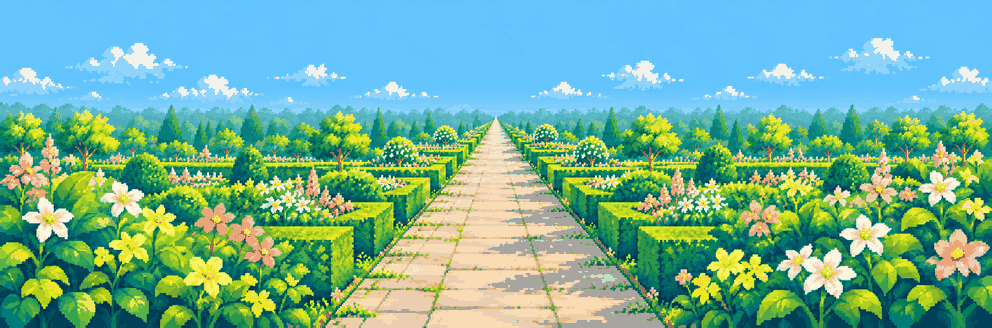
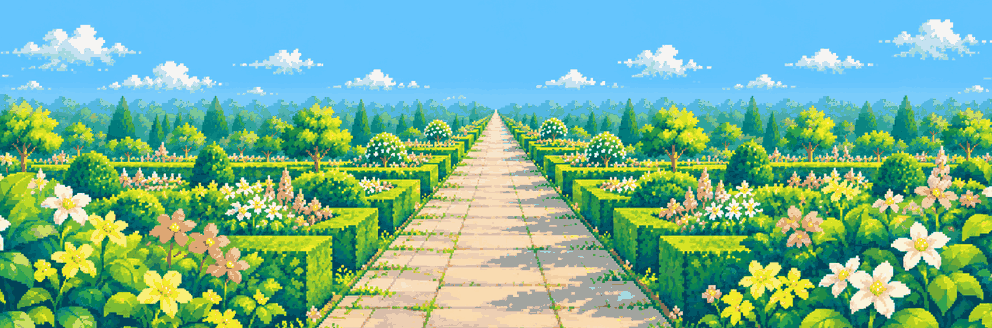
art: raise the outside view — less sky, eye-level horizon
The windows looked out from a very high floor: back-wall panes were 70-99% sky.
Every room's view is re-cropped lower from the same Codex originals (view.py
--zoom, sky above the far silhouettes is cut to about one third of the glass,
one shared horizon per room: studio2 87, lounge 130, library 88, greenhouse
119) so the near trees, bushes and buildings are bigger. Night pictures are
cropped with the measured vertical drift between the two originals, which also
removes the studio2 (and library) night horizon offset.

Lounge: the lake filled the panes, so the day and night pictures are redrawn at
eye level (narrow lake, big near bushes; gen_view prompts updated).

Greenhouse shell: glass.py cuts the pasted pieces of old picture around the
hanging plants (plantReach/plantDens) and drops loose specks (islands).

README: the broken view paths (control characters) are fixed.

diff --git a/art/extras/gen_view.py b/art/extras/gen_view.py
@@ -10,7 +10,7 @@ HERE = os.path.join(os.environ.get("AGENT_OFFICE_ART_WORK") or os.path.join(REPO
 WORK = HERE + "/raw"
 ROOMS = {  # canvas w,h, horizon y in canvas, style ref
  "studio2": (624, 224, 80, "studio2-w4-crop.png"),
- "lounge": (376, 136, 64, "lounge-w0-crop.png"),
+ "lounge": (376, 136, 68, "lounge-w0-crop.png"),
  "library": (304, 112, 58, "library-w1-crop.png"),
  "greenhouse": (992, 328, 96, "greenhouse-w5-crop.png"),
 }
@@ -20,8 +20,8 @@ STYLE = ("Pixel art, 16-bit era, same rendering style, palette and pixel size as
 P = {
 "studio2-day": "Wide panorama of a sunny city seen from a high window, pale blue sky with three small white clouds, a hazy distant skyline of tiny blue-grey towers sitting on the horizon (haze fades them toward the sky colour), nearer beige, pink and blue buildings with tiny window dots in the middle distance, and large yellow-green tree canopies and a few rooftops filling the bottom third. Strong scale difference: far towers very small, mid buildings medium, trees large.",
 "studio2-night": "The same city, same composition, same horizon and same building positions as the attached day image, at night: deep navy sky, crescent moon, a few small stars, dark blue skyline with sparse small warm-yellow lit windows, dark teal tree canopies with a few small street-lamp dots. No light glow, no bloom, flat pixel lights only. Paint it about 40% brighter than a realistic night.",
-"lounge-day": "Wide panorama of a sunny mountain valley: layered blue mountains on the horizon fading into haze, a calm lake with a far shore, rounded dark-green forest on the shore, big yellow flowering bushes and bright green foliage in the bottom third. Bright sky with a few small clouds. Far things tiny and hazy, near things large.",
-"lounge-night": "The same valley, same composition, same horizon and silhouettes as the attached day image, at night: starry navy sky with a moon, indigo mountains, lake with a pale moon streak, a couple of tiny warm lit cabin windows far away, dark forest and bushes with a few yellow flower dots. No glow, flat pixel lights, painted brighter than realistic.",
+"lounge-day": "Wide panorama of a sunny lake valley seen at EYE LEVEL from a low viewpoint on the shore, not from above: small hazy layered blue mountains in the upper third, a far shore with a dark-green forest right on the horizon line, only a thin band of calm blue lake at the horizon, and the whole lower half filled with big close yellow flowering bushes and bright green foliage that look large and near (each bush about 30 to 50 px in the final 376x136 picture). The viewer stands among the bushes, the water is a narrow strip behind them. Bright sky with a few small clouds, the sky takes only the top quarter.",
+"lounge-night": "Edit the attached day image into a night version of EXACTLY the same picture: every mountain, tree, bush, flower cluster and the thin lake strip stay in exactly the same pixel positions and shapes, the horizon and the top of the bushes stay on the same rows, nothing moves, nothing is added or removed in the landscape. Only recolour it for night: deep navy sky with a moon and a few small stars, dark indigo mountains, dark teal forest, dark navy lake strip with a pale moon streak, dark green bushes whose yellow flowers become dim pale yellow dots. No glow, flat pixel lights, painted brighter than realistic.",
 "library-day": "Wide panorama: jagged blue-grey mountains with small snow caps on the horizon, a pine forest in the middle distance, a sunlit green meadow with a few large pine crowns in the bottom third, bright sky with a few white clouds. Far mountains hazy and small, near pines large.",
 "library-night": "The same landscape, same composition, horizon and silhouettes as the attached day image, at night: moon and stars, dark blue mountains, almost black-green pines, one tiny lit cabin window in the forest, a few 1 px pale firefly dots on the meadow. No glow, painted brighter than realistic.",
 "greenhouse-day": "Very wide garden panorama: bright blue sky with small clouds across the top third (completely empty of trees there), a hazy blue-green treeline on the horizon, mid-distance garden trees, hedges and flower beds with white, pink and yellow flowers, a pale stone path in the exact horizontal centre narrowing toward a vanishing point on the horizon, and big near foliage and large flowers in the bottom third and at both outer edges.",

diff --git a/art/glass.py b/art/glass.py
@@ -10,6 +10,8 @@ Reads art/glass.json[room] and assets/scenes/<room>/scene.json (`windows`, `view
                  inside the `zones` boxes and the window polygons grown by `grow` px and inside the room outline, each area closed by
                  `close` px so clouds, white flowers and glints inside the glass are not holes. Hanging plants (dark green outlines, which the
                  painted garden has not) are found inside the hand boxes `plants` and left out.
+  `plantReach` / `plantDens` (flood): how tightly the plant outline blob is cut (default 4 px / .07; greenhouse 2 / .25, so the pasted pieces of
+                 old picture around the hanging plants become glass); `islands` N: opaque pieces of at most N px cut off from everything else are old-picture specks and become glass.
   `subtract` / `add`: hand polygons removed from / added to the hole (hanging plants painted into the shell, door handles).
 Writes shell.png as RGBA: alpha 0 on the glass, the old picture's RGB kept under the hole (tools that drop alpha still see the old view),
 and the 1-2 px ring around the hole decontaminated: ring pixels that still carry the old glass colour take the nearest frame colour.
@@ -69,12 +71,12 @@ def components(mask, y_max):
     return out
 
 
-def plant_mask(rgb, boxes):
+def plant_mask(rgb, boxes, reach=4, dens_min=0.07):
     """Hanging plants: dark green outlines are dense on a plant and almost absent from the painted garden behind the glass."""
     mx = rgb.max(axis=2)
     dg = (mx < 85) & (rgb[..., 1] > rgb[..., 0] + 3) & (rgb[..., 1] >= rgb[..., 2])
     dens = np.asarray(Image.fromarray((dg * 255).astype(np.uint8)).filter(ImageFilter.BoxBlur(5))) / 255.0
-    blob = grow(dens > 0.07, 4)
+    blob = grow(dens > dens_min, reach)
     box = np.zeros(mx.shape, bool)
     for x0, y0, x1, y1 in boxes:
         box[y0:y1, x0:x1] = True
@@ -86,7 +88,7 @@ def flood_hole(rgb, cfg, outline, windows):
     sat = (mx - mn) / np.maximum(mx, 1)
     coloured = ((sat > cfg.get("sat", 0.16)) | (rgb[..., 2].astype(int) > rgb[..., 0].astype(int) + 12)) & (mx >= 90)
     r, g, b = (rgb[..., i].astype(int) for i in range(3))
-    coloured &= ~plant_mask(rgb, cfg.get("plants", []))
+    coloured &= ~plant_mask(rgb, cfg.get("plants", []), cfg.get("plantReach", 4), cfg.get("plantDens", 0.07))
     coloured &= shrink(poly_mask(mx.shape[::-1], [outline]), 1)  # the painted backdrop outside the room is green too
     zone = grow(poly_mask(mx.shape[::-1], windows), cfg.get("grow", 8)) | poly_mask(mx.shape[::-1], cfg.get("zones", []))
     coloured &= zone  # pictures, shelves and the floor are coloured too: only look near the panes
@@ -114,9 +116,13 @@ def hole_for(rgb, windows, cfg, outline=None):
     if cfg.get("add"):
         hole |= poly_mask((w, h), cfg["add"])
     if mode == "flood":  # the hanging plants stay, also where an `add` polygon (door glass) reaches behind them
-        hole &= ~plant_mask(rgb, cfg.get("plants", []))
+        hole &= ~plant_mask(rgb, cfg.get("plants", []), cfg.get("plantReach", 4), cfg.get("plantDens", 0.07))
     if cfg.get("subtract"):
         hole &= ~poly_mask((w, h), cfg["subtract"])
+    if cfg.get("islands"):  # old-picture specks: small opaque pieces cut off from the frame, inside the glass area
+        for pts in components(~hole, cfg.get("maxY", h)):
+            if len(pts) <= cfg["islands"]:
+                hole[pts[:, 0], pts[:, 1]] = True
     return hole
 
 

diff --git a/art/view.py b/art/view.py
@@ -1,26 +1,30 @@
 """Window view panorama processing (README "Window views").
-  python art/view.py <room> <day|night> <raw.png> <horizon-src-fraction> [--cx 0.5] [--strength 1] [--out DIR]
+  python art/view.py <room> <day|night> <raw.png> <horizon-src-fraction> [--cx 0.5] [--strength 1] [--zoom 1] [--hy Y] [--out DIR]
 Takes the raw Codex picture of a room's outside view (one continuous wide landscape, see art/prompts.json "views"), crops a box of the
 room's canvas aspect that puts the source horizon at the room's horizon fraction, LANCZOS-downscales to the exact canvas size (the shell
 recipe of snap.py, not nearest neighbour), blends a haze band at the horizon so the far layer is lighter than the near ones, and reduces
-the palette. Writes assets/scenes/<room>/view-<mode>.png (default --out). The canvas box is the scene.json "view" entry."""
+the palette. Writes assets/scenes/<room>/view-<mode>.png (default --out). The canvas box is the scene.json "view" entry.
+--zoom Z (>1) takes a box 1/Z of the raw picture, so the landscape is bigger and the sky above the far layer is cropped away (eye-level look);
+--hy overrides the room's horizon row (scene y). The horizon of the picture must land on the same canvas row for day and night: give the night
+picture the horizon fraction of its own raw (the day fraction minus the measured vertical drift between the two raws)."""
 import sys, os, argparse
 import numpy as np
 from PIL import Image, ImageFilter
 ROOMS = {  # origin x,y, size w,h, horizon scene y, quantize colours
- "studio2": ((64, 32), (624, 224), 112, 128),
- "lounge": ((344, 64), (376, 136), 128, 64),
- "library": ((304, 32), (304, 112), 99, 64),
- "greenhouse": ((16, 16), (992, 328), 127, 64),
+ "studio2": ((64, 32), (624, 224), 87, 128),
+ "lounge": ((344, 64), (376, 136), 130, 64),
+ "library": ((304, 32), (304, 112), 88, 64),
+ "greenhouse": ((16, 16), (992, 328), 119, 64),
 }
 HAZE = {"day": ((207, 229, 242), 0.30), "night": ((31, 44, 85), 0.25)}
 
-def process(room, mode, src, hfrac, cx=0.5, strength=1.0):
-    (ox, oy), (w, h), hy, ncol = ROOMS[room]
+def process(room, mode, src, hfrac, cx=0.5, strength=1.0, zoom=1.0, hy=None):
+    (ox, oy), (w, h), hy0, ncol = ROOMS[room]
+    hy = hy0 if hy is None else hy
     im = Image.open(src).convert("RGB")
     W, H = im.size
     a = w / h
-    cw, ch = W, W / a
+    cw, ch = W / zoom, W / zoom / a
     if ch > H: ch, cw = H, H * a
     f = (hy - oy) / h
     top = hfrac * H - f * ch
@@ -43,8 +47,9 @@ if __name__ == "__main__":
     p.add_argument("room"); p.add_argument("mode"); p.add_argument("src"); p.add_argument("hfrac", type=float)
     p.add_argument("--cx", type=float, default=0.5); p.add_argument("--out", default=None)
     p.add_argument("--strength", type=float, default=1.0)
+    p.add_argument("--zoom", type=float, default=1.0); p.add_argument("--hy", type=int, default=None)
     a = p.parse_args()
-    im, sh = process(a.room, a.mode, a.src, a.hfrac, a.cx, a.strength)
+    im, sh = process(a.room, a.mode, a.src, a.hfrac, a.cx, a.strength, a.zoom, a.hy)
     out = a.out or os.path.join(os.path.dirname(os.path.dirname(os.path.abspath(__file__))), "assets", "scenes", a.room)
     os.makedirs(out, exist_ok=True)
     im.save(f"{out}/view-{a.mode}.png", optimize=True)
